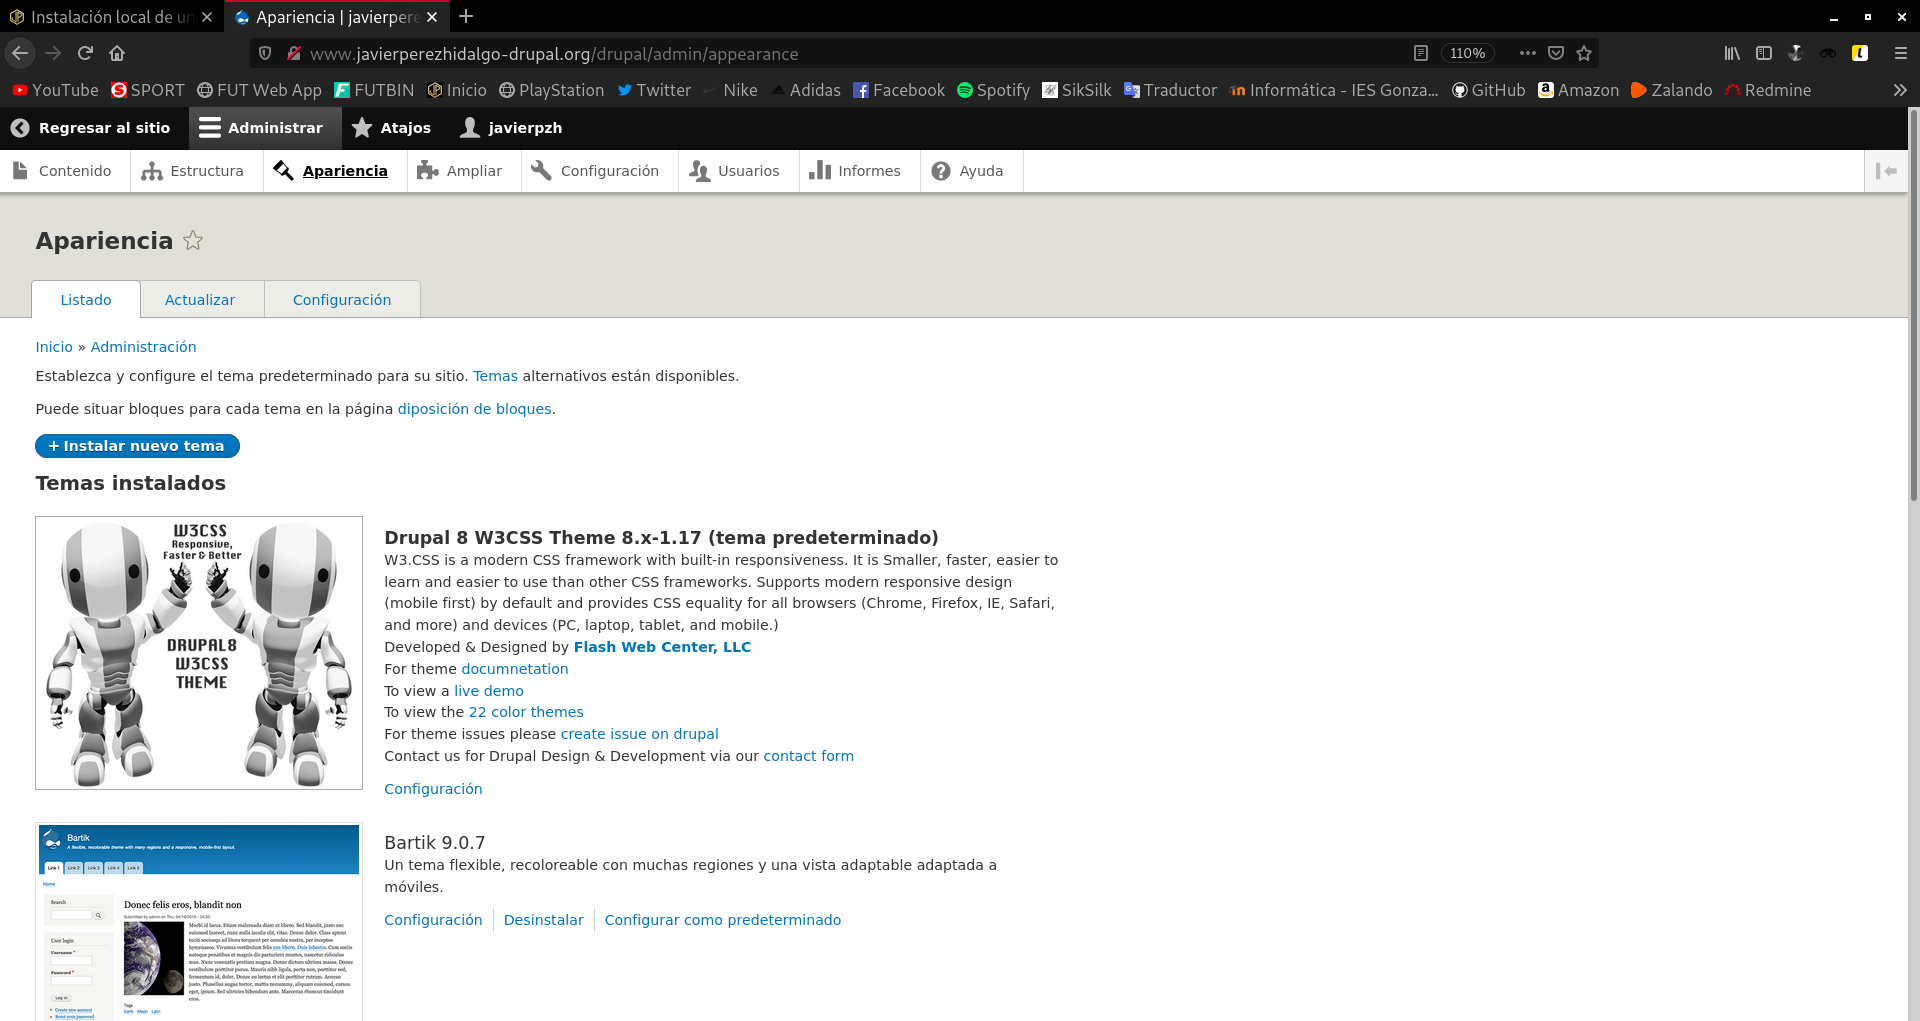
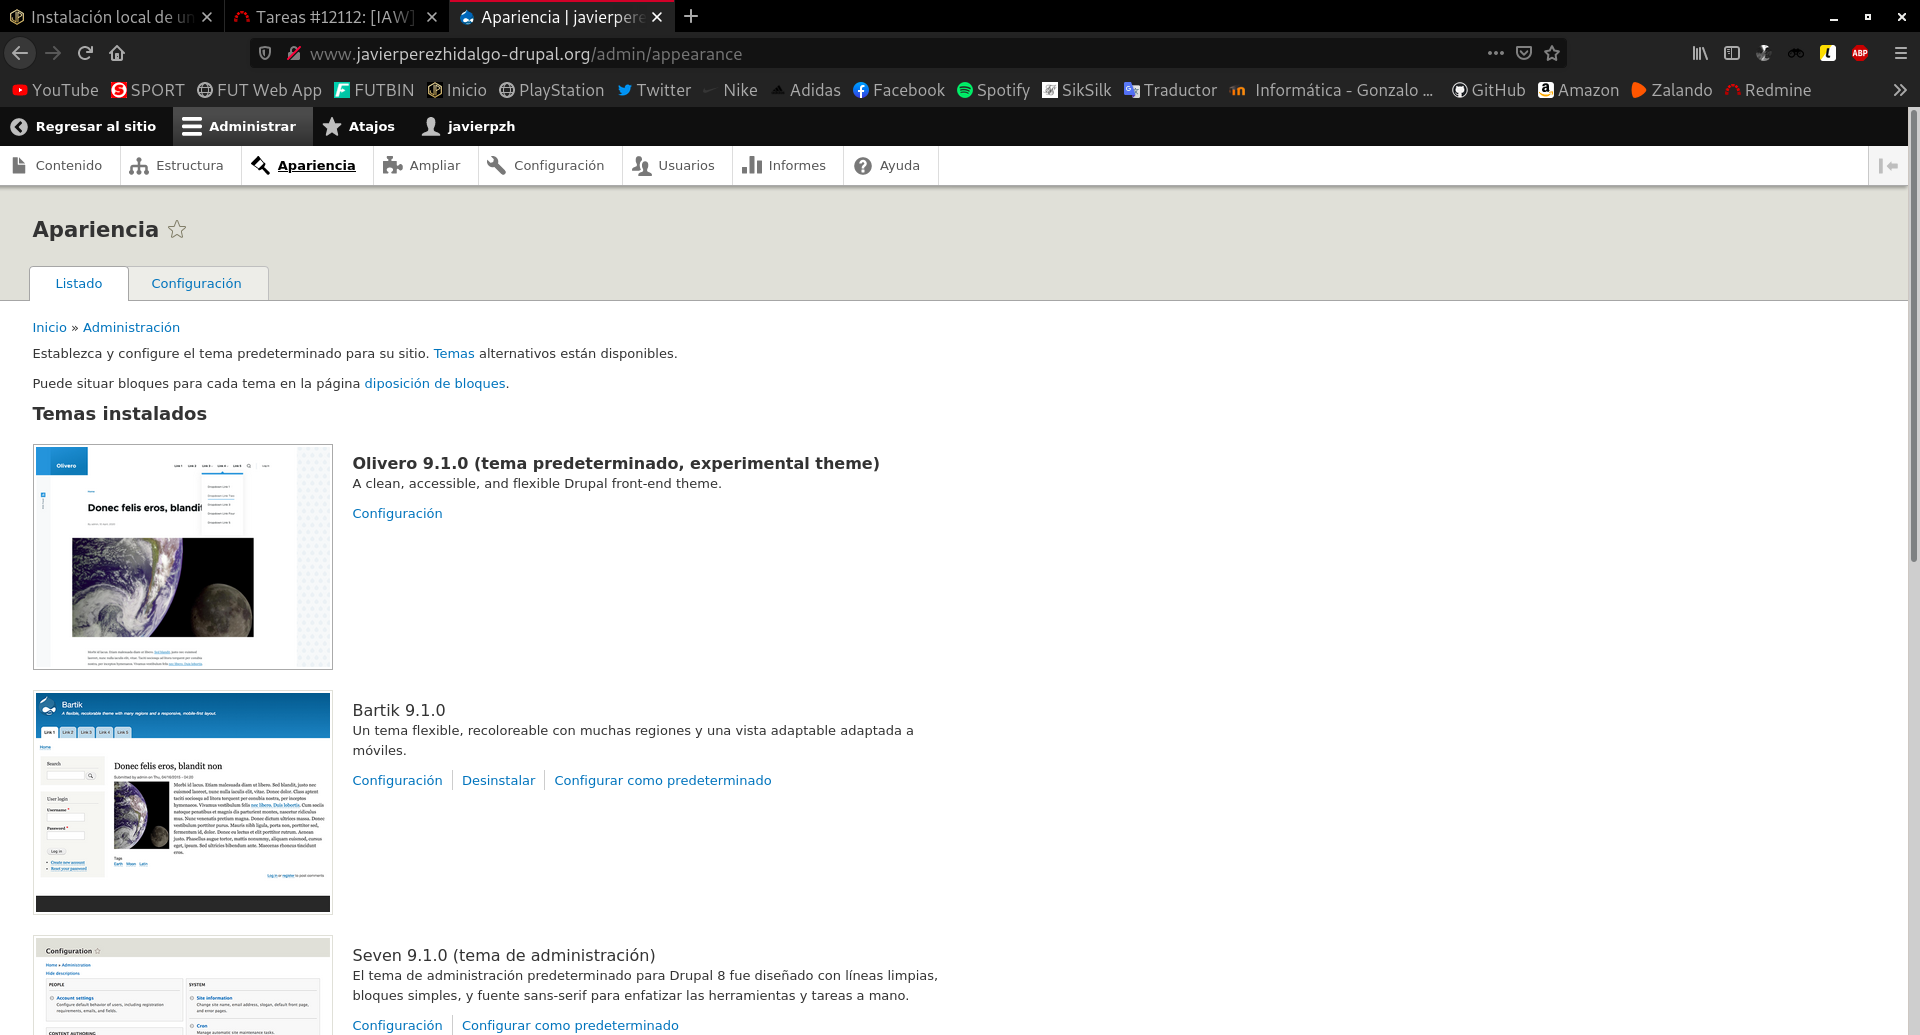
cambiosweb

diff --git a/instalacion-local-de-un-cms-php.html b/instalacion-local-de-un-cms-php.html
@@ -445,8 +445,7 @@ systemctl restart apache2
 <li><strong>Realiza una configuración mínima de la aplicación (Cambia la plantilla, crea algún contenido, …)</strong></li>
 </ul>
 <p>Para <strong>cambiar el tema de nuestro CMS</strong>, nos dirigimos a la opción que nos aparece arriba, <strong>Apariencia</strong> y seleccionamos <code>+ Instalar nuevo tema</code>, introducimos el enlace de descarga del tema que queremos añadir y listo. Cuidado, tenemos que comprobar que el tema que vamos a instalar es compatible con la versión de <em>Drupal</em> que estamos utilizando.</p>
-<p><img alt="." src="images/iaw_instalacion_local_de_un_cms_php/temainstalado.png"></p>
-<p>Lo seleccionamos como activo:</p>
+<p>Una vez tenemos instalado el tema que queremos, lo seleccionamos como activo:</p>
 <p><img alt="." src="images/iaw_instalacion_local_de_un_cms_php/temaseleccionado.png"></p>
 <p>Y ya hemos cambiado el tema:</p>
 <p><img alt="." src="images/iaw_instalacion_local_de_un_cms_php/nuevotemainicio.png"></p>
